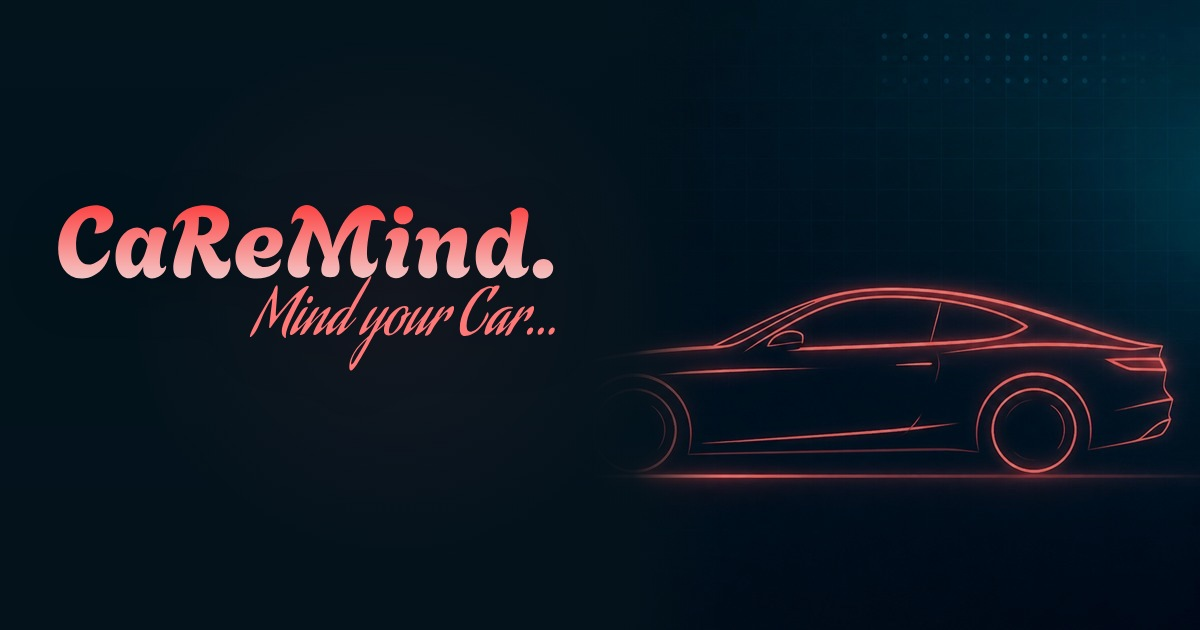
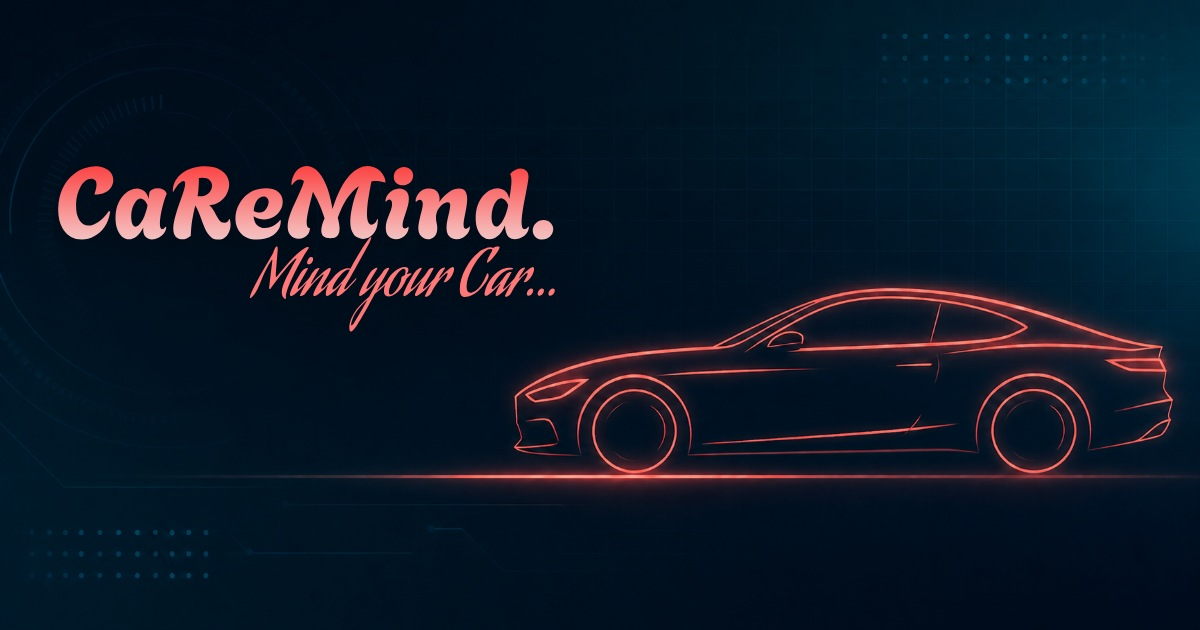
Show full vehicle in social preview

diff --git a/frontend/index.html b/frontend/index.html
@@ -21,11 +21,11 @@
     />
     <meta
       property="og:image"
-      content="https://www.car-remind.gr/assets/caremind-social-preview.jpg?v=2"
+      content="https://www.car-remind.gr/assets/caremind-social-preview.jpg?v=3"
     />
     <meta
       property="og:image:secure_url"
-      content="https://www.car-remind.gr/assets/caremind-social-preview.jpg?v=2"
+      content="https://www.car-remind.gr/assets/caremind-social-preview.jpg?v=3"
     />
     <meta property="og:image:type" content="image/jpeg" />
     <meta property="og:image:width" content="1200" />
@@ -43,7 +43,7 @@
     />
     <meta
       name="twitter:image"
-      content="https://www.car-remind.gr/assets/caremind-social-preview.jpg?v=2"
+      content="https://www.car-remind.gr/assets/caremind-social-preview.jpg?v=3"
     />
     <meta
       name="twitter:image:alt"

diff --git a/backend/test/social-preview.test.js b/backend/test/social-preview.test.js
@@ -34,7 +34,7 @@ test("homepage exposes a valid 1200x630 social sharing preview", () => {
   assert.match(html, /property="og:image:width" content="1200"/);
   assert.match(html, /property="og:image:height" content="630"/);
   assert.match(html, /name="twitter:card" content="summary_large_image"/);
-  assert.match(html, /https:\/\/www\.car-remind\.gr\/assets\/caremind-social-preview\.jpg\?v=2/);
+  assert.match(html, /https:\/\/www\.car-remind\.gr\/assets\/caremind-social-preview\.jpg\?v=3/);
   assert.deepEqual(jpegDimensions(image), { width: 1200, height: 630 });
   assert.ok(image.length > 50_000, "social preview should not be an empty placeholder");
 });
